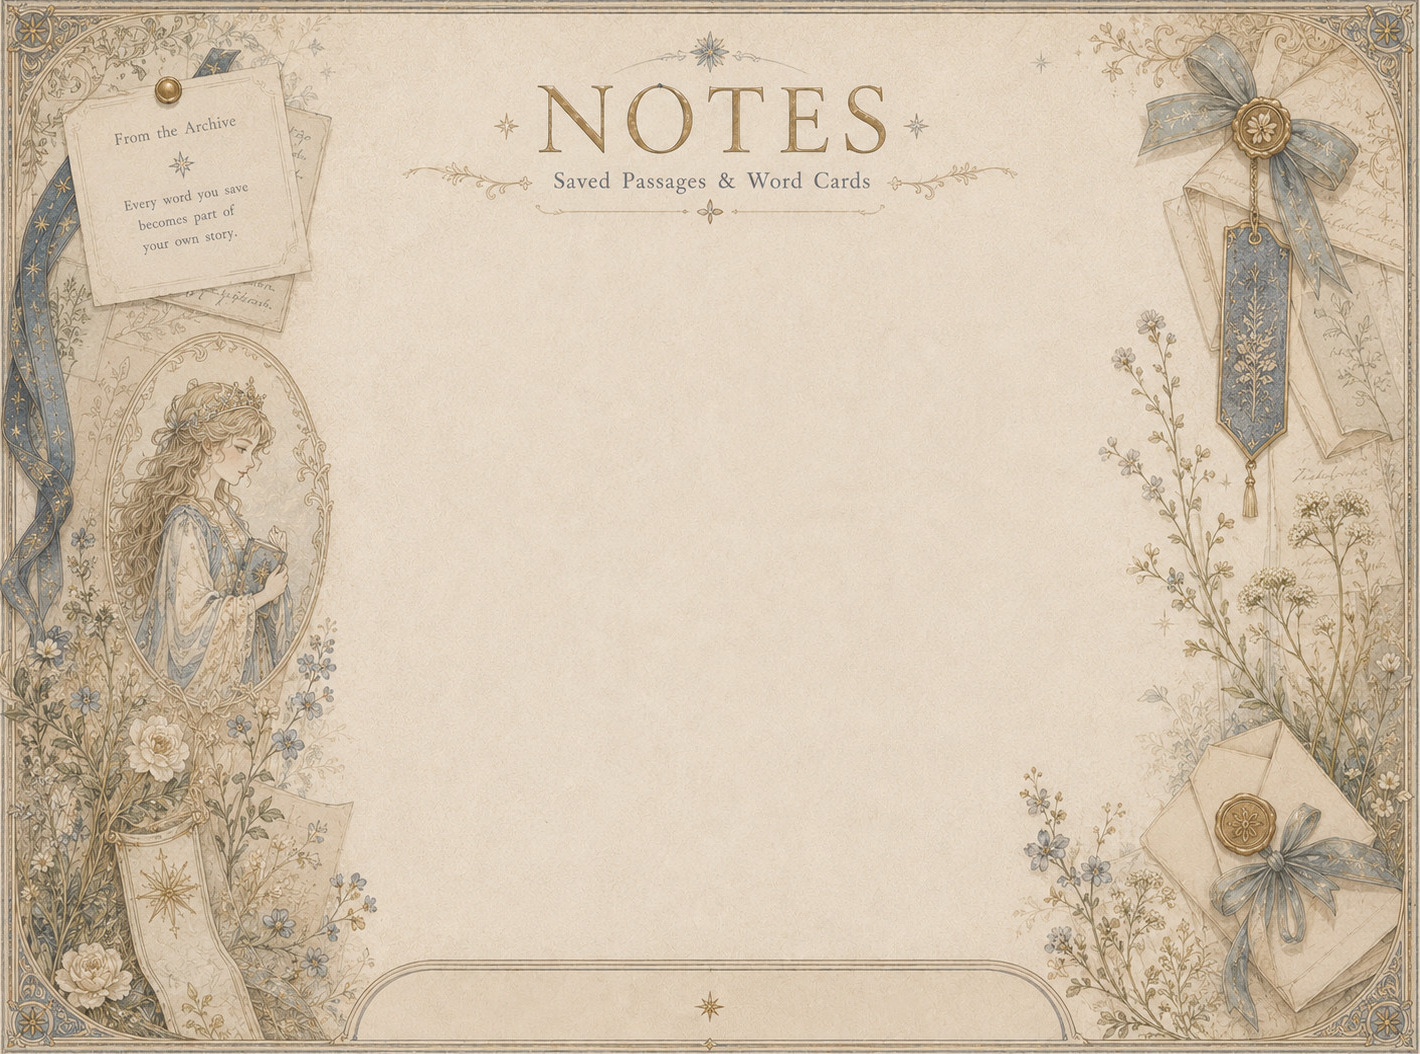
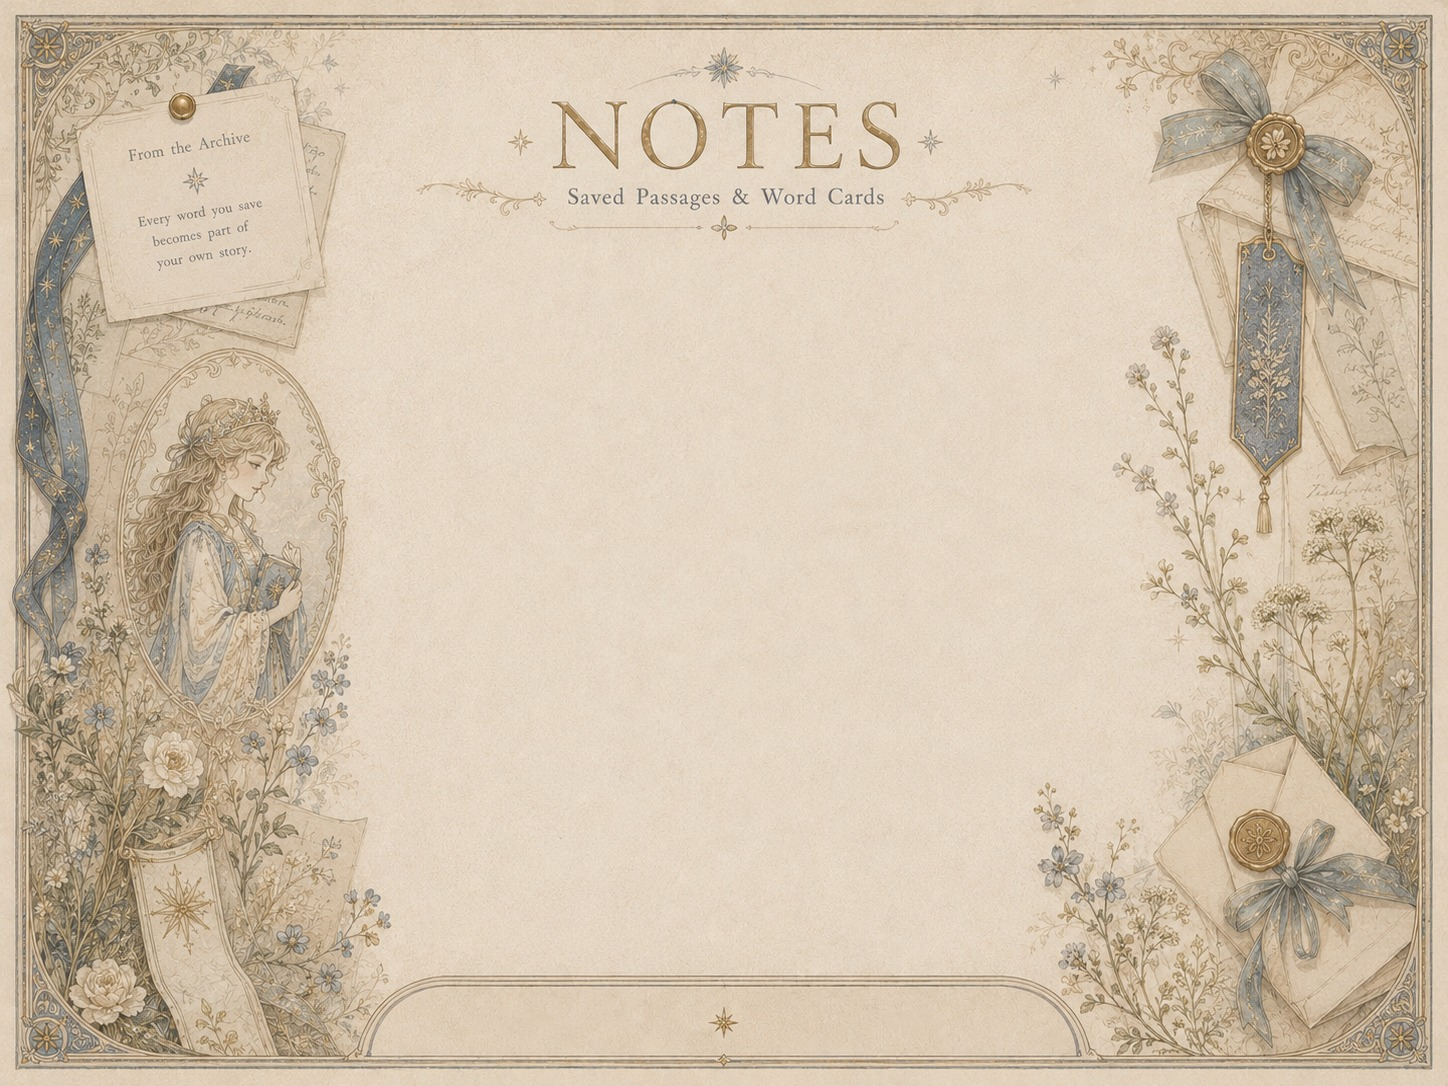
Use uncropped 1448x1086 originals; restore menu→select hop
Two changes:

1. Replaced every UI bg and chapter illustration with the uncropped
   1448x1086 original from `main` (re-encoded as JPEG q92). Previous
   versions were 1420x1054 — the bleed-crop trimmed off ~1.5% on each
   axis to dodge the painted frame seam, but in the new SPA every view
   renders at full canvas so the seam no longer needs hiding. The new
   files match the design canvas exactly, so all the % positioned
   `ui-zone`s land where the painted layout intended them to land.

   Mapping (cropped name ← original UUID/IMG name):
     splash         ← C1F92DD5  (TAP TO BEGIN cover)
     main-menu      ← 49B5D8DD  (Main Menu stained-glass princess)
     select-mode    ← IMG_5881  (SELECT A MODE 3-arch)
     chapters       ← 89C535ED  (TABLE OF CONTENTS)
     notes          ← IMG_5877  (NOTES title page)
     word-garden    ← IMG_5878  (WORD GARDEN title page)
     page-blank     ← ACAD4BF0  (Back/Menu blank — save/load bg)
     frame-blank    ← 67CAC3D4  (portrait card frame for word drawer)
     universe       ← IMG_5826  (princess + crystal sphere)
     earth-history  ← 15A9B2D9   africa     ← 66AC5525
     antarctica     ← 4277276D   au.-pac.   ← 86B23517
     south-america  ← F334DF30   asia-china ← C831204F
     asia-egypt    ← 9CDC210D   oceans     ← 4D837BEE
     eu-empress    ← 33B1060E   eu-alice   ← ADE7D853
     eu-france     ← CDF8E700   north-am.  ← 2B118E5E

   menu-button-{start,enter}.png were already standalone PNGs in the
[…]

Changed region(s): [[0.0, 0.0, 1.0, 1.0]]

diff --git a/js/views.js b/js/views.js
@@ -37,7 +37,10 @@ const Views = (function () {
       host.querySelectorAll(".menu-btn").forEach(btn => {
         btn.addEventListener("click", () => {
           const a = btn.dataset.action;
-          if (a === "resume") window.go(resumeHash());
+          // Resume → Select (the three-arch screen) so the user can
+          // still pick Story / Notes / Word Garden. The actual
+          // "continue from last read" hop lives on the Story arch.
+          if (a === "resume") window.go("#select");
           else                window.go("#chapters?browse=1");
         });
       });
